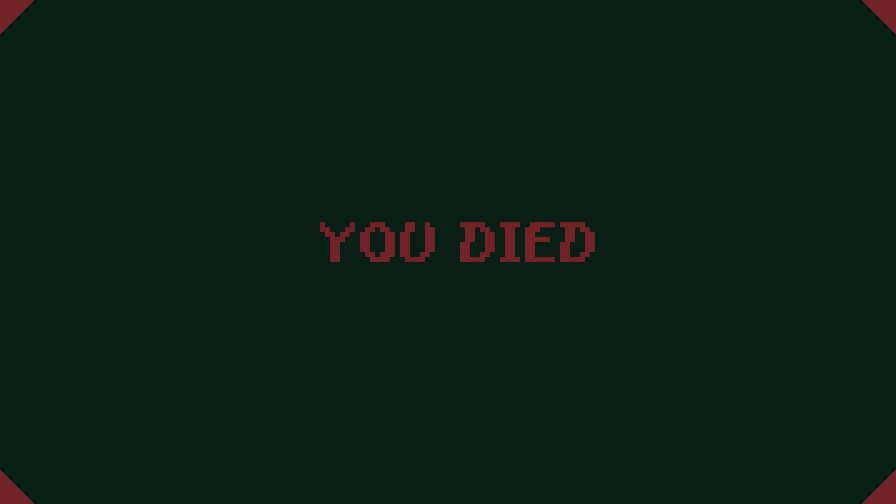
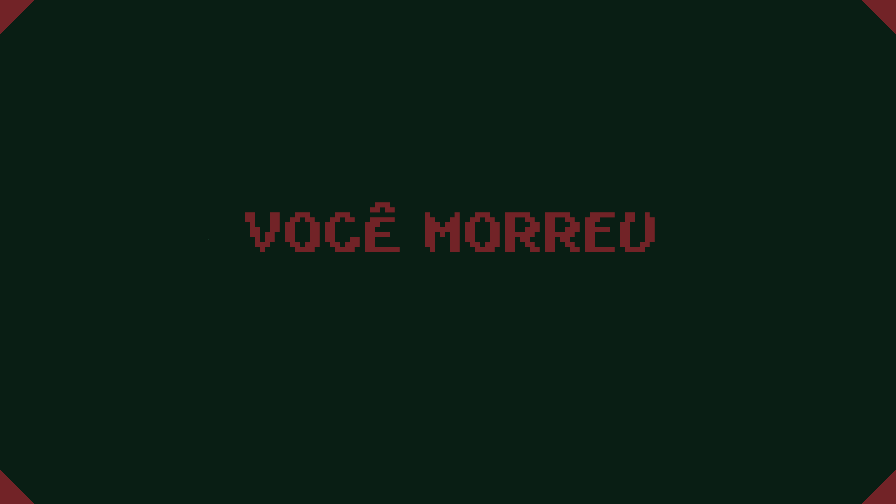
Dano terrestre

Changed region(s): [[0.25, 0.3869, 0.75, 0.5357]]

diff --git a/src/localizacao.c b/src/localizacao.c
@@ -155,7 +155,8 @@ void ninho(tile *tileAtual, int *x, int *y,int *flagPontos,int *flagEvolucao){
 void movimentacaoInimigos(int tile, int *xInimigo, int *yInimigo, int *x, int *y, int *flagVida){
     static int t, i;
     ALLEGRO_BITMAP *iniTerrestre[8];
-
+    
+    
     iniTerrestre[0] = al_load_bitmap("../res/images/terrestre/baixo.png");
     iniTerrestre[1] = al_load_bitmap("../res/images/terrestre/baixo2.png");
     iniTerrestre[2] = al_load_bitmap("../res/images/terrestre/cima.png");
@@ -164,6 +165,7 @@ void movimentacaoInimigos(int tile, int *xInimigo, int *yInimigo, int *x, int *y
     iniTerrestre[5] = al_load_bitmap("../res/images/terrestre/direita2.png");
     iniTerrestre[6] = al_load_bitmap("../res/images/terrestre/esquerda.png");
     iniTerrestre[7] = al_load_bitmap("../res/images/terrestre/esquerda2.png");
+
 
     if(*xInimigo < *x - 3){
         *xInimigo += 3;
@@ -211,6 +213,8 @@ void movimentacaoInimigos(int tile, int *xInimigo, int *yInimigo, int *x, int *y
         }else{
             al_draw_scaled_bitmap(iniTerrestre[i], 0, 0, 9, 22, *x, *y, 27, 66, 0);
         }
+        *flagVida -= 1;
+        *y += 50;
     }
 
     t += 1;

diff --git a/src/ambienteUm.c b/src/ambienteUm.c
@@ -10,6 +10,7 @@ enum statesGame ambienteUm(ALLEGRO_EVENT_QUEUE *fila, ALLEGRO_EVENT evento){
     tile tileAtual;
     iniciarTiles(&tileAtual);
 
+    ALLEGRO_BITMAP *fimJogo = al_load_bitmap("../res/images/telaMorte.png");
     ALLEGRO_BITMAP *pontos[4];
     pontos[0] = al_load_bitmap("../res/images/pontos0.png");
     pontos[1] = al_load_bitmap("../res/images/pontos1.png");
@@ -46,6 +47,14 @@ enum statesGame ambienteUm(ALLEGRO_EVENT_QUEUE *fila, ALLEGRO_EVENT evento){
         if(falas(fila, evento, tileAtual.ID, x, y, &flagPontos)){
             return Exit;
         }
+
+        if(flagVida == 0){
+            al_draw_scaled_bitmap(fimJogo,0,0,896,504,0,0,1280,720,0);
+            al_flip_display();
+            al_rest(5.0);
+            return Exit;
+        }
+        
 
         ninho(&tileAtual, &x, &y, &flagPontos, &flagEvolucao);
 
